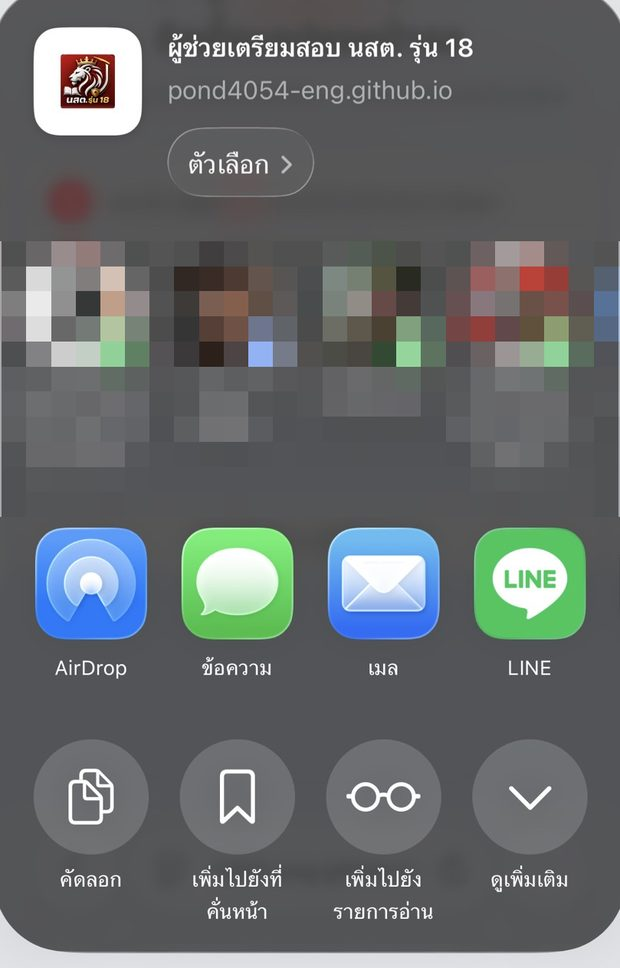
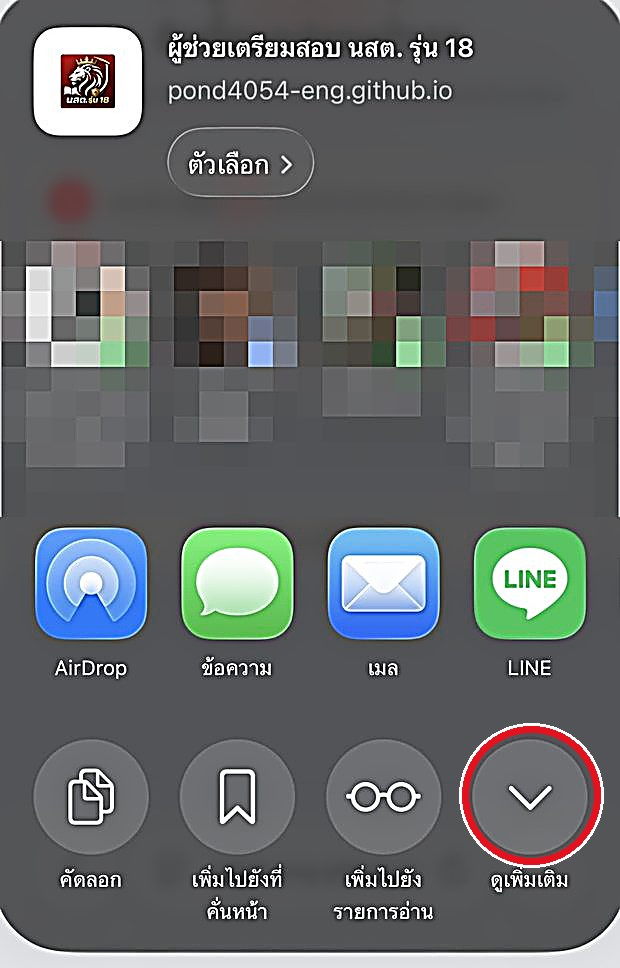
หน้าติดตั้ง iOS: เพิ่มภาพแอปตัวอย่าง + ภาพกดปุ่มแชร์, วงกลม 'ดูเพิ่มเติม'/กรอบ 'เพิ่ม', เอามือชี้ออก, ปรับภาพคมขึ้น, เป็น 4 ขั้น (sw v57)

diff --git a/index.html b/index.html
@@ -194,12 +194,6 @@
   .ytstage:fullscreen .ytwrap, .ytstage:-webkit-full-screen .ytwrap, .ytstage.ytfs .ytwrap,
   .ytstage:fullscreen .ytctrl, .ytstage:-webkit-full-screen .ytctrl, .ytstage.ytfs .ytctrl{ width:min(100%, calc((100vh - 54px) * 16 / 9)); }
   .ytstage:fullscreen .ytwrap, .ytstage:-webkit-full-screen .ytwrap, .ytstage.ytfs .ytwrap{ padding-top:0!important; aspect-ratio:16 / 9; }
-  /* มือชี้ + วงไฮไลต์บนภาพขั้นตอนติดตั้ง */
-  .ptr-wrap{ position:relative; }
-  .ptr-ring{ position:absolute; border:3px solid var(--pri); border-radius:9px; box-sizing:border-box; box-shadow:0 0 0 3px rgba(255,255,255,.55), 0 0 10px rgba(228,17,31,.5); animation:ptrpulse 1.2s ease-in-out infinite; pointer-events:none; }
-  .ptr-hand{ position:absolute; font-size:30px; line-height:1; filter:drop-shadow(0 2px 3px rgba(0,0,0,.5)); animation:ptrbob 1s ease-in-out infinite; pointer-events:none; }
-  @keyframes ptrpulse{ 0%,100%{ opacity:1; } 55%{ opacity:.35; } }
-  @keyframes ptrbob{ 0%,100%{ transform:translateY(0); } 50%{ transform:translateY(-6px); } }
   .flamearc{ filter:drop-shadow(0 0 3px var(--fl)); animation:flameflick 1.5s ease-in-out infinite; }
   /* ไฟลุกที่ปลายแถบ: ลิ้นไฟลุกขึ้น-ลง + แสงเรืองหายใจ */
   @keyframes fltongue{ 0%,100%{ transform:scaleY(1) scaleX(1); opacity:.95; } 35%{ transform:scaleY(1.28) scaleX(.88); opacity:1; } 65%{ transform:scaleY(.86) scaleX(1.08); opacity:.9; } }
@@ -2866,14 +2860,15 @@ function showInstallScreen(){
       '<div style="flex:1;font-size:13.5px;line-height:1.55;padding-top:1px;">'+txt+'</div></div>';
   }
   var h='';
-  h+='<img src="icons/icon-192.png" alt="" style="width:80px;height:80px;border-radius:20px;display:block;margin:0 auto 16px;box-shadow:0 12px 30px rgba(164,0,1,.3);">'+
+  h+='<img src="icons/app-preview.jpg" alt="นสต.18" style="width:128px;display:block;margin:0 auto 12px;border-radius:16px;border:1px solid var(--c-border);box-shadow:0 10px 26px rgba(164,0,1,.22);">'+
      '<h1>ติดตั้งแอปลงหน้าจอ</h1>'+
-     '<p class="sub">เปิดใช้ง่าย เร็ว ใช้ได้แม้ไม่มีเน็ต — เหมือนแอปจริงในเครื่อง</p>';
+     '<p class="sub">ติดตั้งแล้วได้ไอคอนนี้บนหน้าจอ — เปิดง่าย เร็ว ใช้ได้แม้ไม่มีเน็ต</p>';
   if(ios){
     h+='<div style="display:flex;flex-direction:column;gap:14px;text-align:left;background:rgba(255,255,255,.75);border:1px solid var(--c-border);border-radius:16px;padding:16px 18px;">'+
-         step(1,'แตะปุ่ม <b>แชร์</b> <span style="display:inline-block;border:1.5px solid var(--pri);border-radius:5px;padding:0 4px;color:var(--pri);font-weight:800;">↑</span> ที่แถบด้านล่างของ Safari')+
-         step(2,'เลื่อนหา <b>“เพิ่มไปยังหน้าจอโฮม”</b> แล้วแตะ')+
-         step(3,'แตะ <b>“เพิ่ม”</b> มุมขวาบน — เสร็จเลย!')+
+         step(1,'แตะปุ่ม <b>“แชร์”</b> <span style="display:inline-block;border:1.5px solid var(--pri);border-radius:5px;padding:0 4px;color:var(--pri);font-weight:800;">↑</span>')+
+         step(2,'ในแผ่นแชร์ เลื่อนลง แล้วแตะ <b>“ดูเพิ่มเติม”</b>')+
+         step(3,'แตะ <b>“เพิ่มไปยังหน้าจอโฮม”</b>')+
+         step(4,'แตะ <b>“เพิ่ม”</b> มุมขวาบน — เสร็จเลย!')+
        '</div>'+
        '<p class="note" style="margin-top:14px;">* ต้องเปิดใน Safari เท่านั้น — ถ้าเปิดในไลน์/เฟซบุ๊ก ให้แตะ ⋯ มุมขวาบน → “เปิดใน Safari” ก่อน</p>'+
        // ภาพประกอบทีละขั้น
@@ -2881,17 +2876,14 @@ function showInstallScreen(){
          '<summary style="cursor:pointer;font-size:13px;font-weight:700;color:var(--pri);text-align:center;">📷 ภาพประกอบทีละขั้น</summary>'+
          '<div style="display:flex;flex-direction:column;gap:14px;margin-top:12px;">'+
            [
-             {t:'แตะปุ่มแชร์ ⬆ → เมนูนี้เด้งขึ้น แล้วเลื่อนลง', ring:'', hand:'', ic:''},
-             {t:'แตะ “เพิ่มไปยังหน้าจอโฮม”', ring:'left:3%;top:80%;width:82%;height:15%;', hand:'left:66%;top:66%;', ic:'👇'},
-             {t:'แตะ “เพิ่ม” มุมขวาบน — เสร็จเลย!', ring:'right:2%;top:5%;width:24%;height:13%;', hand:'right:5%;top:20%;', ic:'👆'}
+             {img:'inst-share', t:'แตะปุ่ม “แชร์” (วงแดง)'},
+             {img:'inst1', t:'เลื่อนลง แล้วแตะ “ดูเพิ่มเติม” (วงแดง)'},
+             {img:'inst2', t:'แตะ “เพิ่มไปยังหน้าจอโฮม”'},
+             {img:'inst3', t:'แตะ “เพิ่ม” (กรอบแดง) มุมขวาบน — เสร็จ!'}
            ].map(function(s,i){
              return '<div>'+
                '<div style="font-size:12px;font-weight:700;color:var(--c-text);margin-bottom:5px;">ขั้น '+(i+1)+' · '+s.t+'</div>'+
-               '<div class="ptr-wrap">'+
-                 '<img src="icons/inst'+(i+1)+'.jpg" alt="ขั้นตอนที่ '+(i+1)+'" loading="lazy" style="width:100%;display:block;border-radius:12px;border:1px solid var(--c-border);box-shadow:0 3px 10px rgba(0,0,0,.1);">'+
-                 (s.ring?'<div class="ptr-ring" style="'+s.ring+'"></div>':'')+
-                 (s.ic?'<div class="ptr-hand" style="'+s.hand+'">'+s.ic+'</div>':'')+
-               '</div>'+
+               '<img src="icons/'+s.img+'.jpg" alt="ขั้นตอนที่ '+(i+1)+'" loading="lazy" style="width:100%;display:block;border-radius:12px;border:1px solid var(--c-border);box-shadow:0 3px 10px rgba(0,0,0,.1);">'+
              '</div>';
            }).join("")+
          '</div>'+

diff --git a/sw.js b/sw.js
@@ -2,7 +2,7 @@
    ────────────────────────────────────────────────
    เวลาแก้ไฟล์แอปแล้วอยากให้เครื่องนักเรียนอัปเดต ให้เปลี่ยนเลข VERSION ข้างล่างนี้
    (เช่น v1 → v2) แล้วอัปโหลดใหม่ทั้งโฟลเดอร์ เท่านี้ทุกเครื่องจะเห็นของใหม่เอง */
-const VERSION = "v56";
+const VERSION = "v57";
 
 const CACHE = "nst18-" + VERSION;
 const SHELL = [
@@ -26,6 +26,8 @@ const SHELL = [
   "./icons/inst1.jpg",
   "./icons/inst2.jpg",
   "./icons/inst3.jpg",
+  "./icons/inst-share.jpg",
+  "./icons/app-preview.jpg",
 ];
 
 // ฟอนต์จาก Google — เก็บลงแคชไว้ใช้ตอนออฟไลน์
